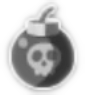
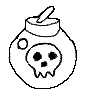
-Corrected typo on filename BombUnvailable to BombUnavailable.
- Updated images to be all hand drawn

diff --git a/ViewModels/GameConstants.cs b/ViewModels/GameConstants.cs
@@ -32,8 +32,8 @@ namespace Sploosh.ViewModels
         public static readonly Uri SquareMissPath = new Uri($@"{AssemblyDirectory}\Images\SquareMiss.png");
         public static readonly Uri BackgroundImage = new Uri($@"{AssemblyDirectory}\Images\Pergament1.png");
         public static readonly Uri ArrowImage = new Uri($@"{AssemblyDirectory}\Images\BackArrow.png");
-        public static readonly Uri BombAvailablePath = new Uri($@"{AssemblyDirectory}\Images\BombAvailable.png");
-        public static readonly Uri BombUnavailablePath = new Uri($@"{AssemblyDirectory}\Images\BombUnvailable.png");
+        public static readonly Uri BombAvailablePath = new Uri($@"{AssemblyDirectory}\Images\BombAvailable.png"); 
+        public static readonly Uri BombUnavailablePath = new Uri($@"{AssemblyDirectory}\Images\BombUnavailable.png");
         public static readonly Uri SquidAlivePath = new Uri($@"{AssemblyDirectory}\Images\SquidAlive.png");
         public static readonly Uri SquidDeadPath = new Uri($@"{AssemblyDirectory}\Images\SquidDead.png");
     }
